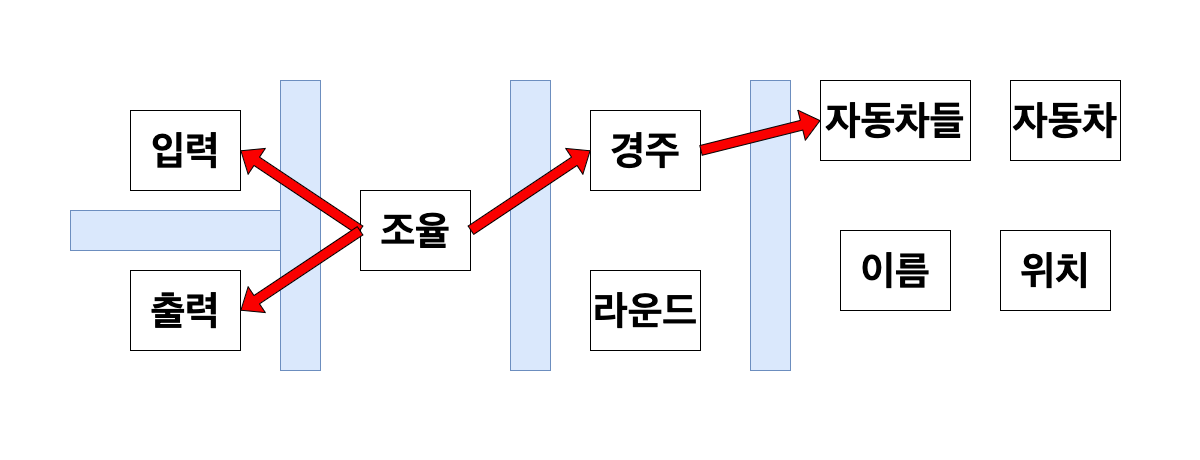
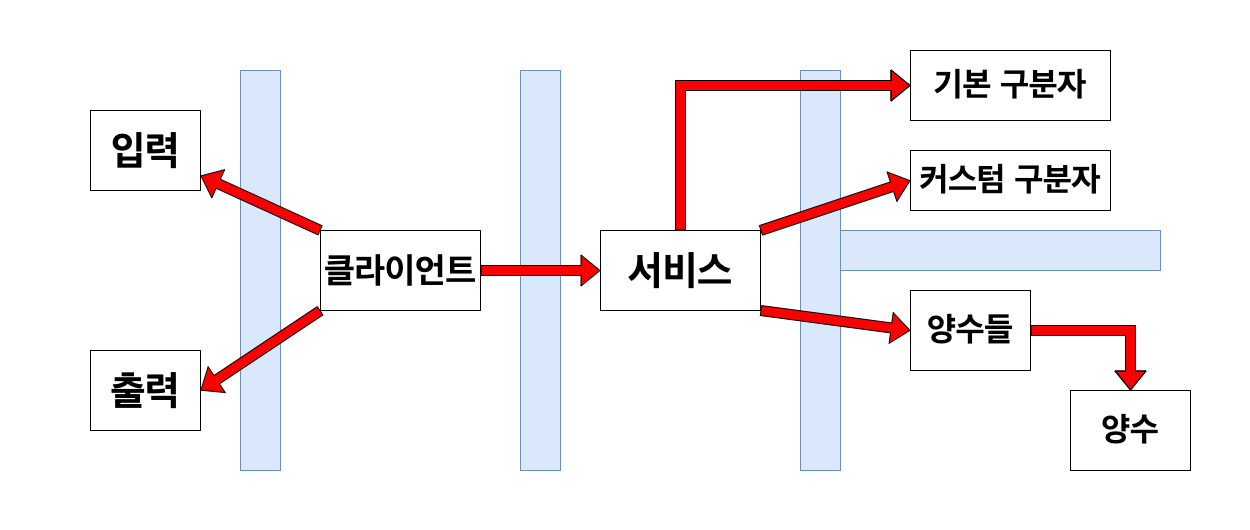
docs: 개념과 격벽 수정

diff --git a/docs/concept_bulkhead.md b/docs/concept_bulkhead.md
@@ -1,28 +1,30 @@
 # 개념과 격벽
-> - **개념은 자동차 경주 프로그램을 지탱하는 것들**
-> - **외부 라이브러리(Console, Random)는 개념이라 보기 어려움**
+> - **개념: 자동차 경주 프로그램을 지탱하는 것들**
+> - **외부 라이브러리(Console, Random): 개념이라 보기 어려움**
+
 - 자동차: 1급 개념
-  - 이름: 상태
+  - 이름: 상태, 2급 개념
     - 식별자 역할, 즉 고유한 값이어야 함
-  - 위치: 상태
+  - 위치: 상태, 2급 개념
     - 핵심 개념 경주에 영향을 주는 상태 값
   - 움직임(전진 or 멈춤): 행위, 위치(상태)에 영향
-- 자동차들: 2급 개념
 - 경주: 1급 개념
-  - 라운드(차수): 상태
-  - 차수 결과: 상태
+  - 라운드(시도 횟수): 상태, 2급 개념
+  - 결과: 상태, 2급 개념
+  - 랜덤값의 범위: 상수 -> 완벽하게 제어/통제 가능
   - 경주 진행: 행위, 자동차들에 움직임 요청해 차수 결과(상태)에 영향
-- 조율: 2급 개념
-  - 자동차 경주 개념들 조율
-- 출력: 2급 개념
-  - 형식: 변하지 않는 상태(상수)
+- 자동차 경주(서비스): 2급 개념
+  - 자동차와 경주의 비즈니스 흐름을 보여줌
+- 클라이언트: 3급 개념
+  - 화면과 서비스 사이에서 서비스 시작 요청을 전달하고, 서비스 결과 응답을 받아 전달한다
+- 출력 화면: 3급 개념
   - 출력 형식을 지키지 않으면 실패
-- 랜덤값: 3급 개념
-  - 외부 라이브러리 `Randoms` 사용 -> 완벽한 제어/통제 불가능
-  - 완벽하게 제어하고 통제할 수 있는 요소: 랜덤값의 범위
-- 입력: 3급 개념 
-  - 외부 라이브러리 `Console` 사용 -> 완벽한 제어/통제 불가능
+- 입력 화면: 3급 개념
   - 완벽하게 제어하고 통제할 수 있는 요소: 자원 해제, 기본 입력 형식(null, empty, blank)
+  - `ApplicationTest`에서 자원 해제를 진행, 하지만 프로덕션에서 자원 해제가 필요 -> 자원 해제가 없어도 테스트에서 문제가 없지만 운영 단계에서 문제 발생
+- 입력, 랜덤값: 개념 X
+  - 외부 라이브러리 `Console` 사용 -> 완벽한 제어/통제 불가능
+  - 외부 라이브러리 `Randoms` 사용 -> 완벽한 제어/통제 불가능
 
 <img width="800" alt="image" src="./images/concept-bulkhead.png">
 
@@ -31,12 +33,21 @@
   - 자동차는 스스로 움직임(전진/멈춤)
   - 자동차들에게 움직임(전진/멈춤)을 명령한다 -> 핵심 개념
 - 각 자동차에 이름을 부여할 수 있다. 전진하는 자동차를 출력할 때 자동차 이름을 같이 출력한다.
+  - 순서를 보장해야 한다
+  - 자동차 경주 -> 보통의 경주는 정해진 레인에서 시작, 입력 순서대로 레인을 배정해 진행하는 것으로 설정
+  - JDK 21 Sequenced Collection: List, LinkedHashMap 등 -> 최종 결과를 `getLast()`로 편리하게 볼 수 있음
 - 자동차 이름은 쉼표(,)를 기준으로 구분하며 이름은 5자 이하만 가능하다.
   - 쉼표를 기준으로 구분하는 것은 Presentation Layer 책임
   - 이름이 5자 이하인지 검증하는것은 이름과 관련된 도메인의 책임
-  - 이름에 공백을 포함? 이름에 이모지를 포함? -> 일종의 게임 닉네임
+  - 이름에 공백을 포함? 이름에 이모지를 포함? -> 일종의 게임 닉네임, 보통 허용하지 않음
+  - 여러 서비스(인스타, 배민 등)이름(닉네임)을 보면 영어(대소문자 구분), 숫자, `_`, 한글만 허용하는 곳이 많음
+  - 아스키 코드 표준을 따름 -> 데이터 저장(DB)과의 연관성
 - 사용자는 몇 번의 이동을 할 것인지를 입력할 수 있어야 한다.
-  - 너무 많은 자동차와 너무 많은 횟수 -> 몇 개 까지 제한하고, 몇 번 까지 제한할까? 
+  - 너무 많은 자동차와 너무 많은 횟수 -> 몇 개 까지 제한하고, 몇 번 까지 제한할까?
+  - 자동차 수는 일단 제한하지 않음
+  - 경주 횟수는 100번 제한: 사용자 디스플레이에 따라 다르나, 현재 출력 형식은 100번 가량 진행하는 것이 보기 편함
+  - `Randoms`는 Integer.MAX_VALUE - 1 까지 지원하는데, 성능 향상? `ThreadPool` 관리와 `ExecutorService` 사용? 경주 알고리즘 성능 개선?
+  - 현재 미션에 중요한 요소(목표)가 아님, 구현과 객체지향 설계가 목표, 시간이 매우 많이 남는다면 시도해볼만한 사항
 - 전진하는 조건은 0에서 9 사이에서 무작위 값을 구한 후 무작위 값이 4 이상일 경우이다.
   - 무작위 값은 외부 API(`Randoms.pickNumberInRange()`) 호출 -> 내가 제어/통제할 수 없는 요소
   - 내가 제어/통제할 수 있는 부분은 4 이상일 경우를 판단하는 부분
@@ -45,7 +56,7 @@
 - 사용자가 잘못된 값을 입력할 경우 IllegalArgumentException을 발생시킨 후 애플리케이션은 종료되어야 한다.
   - `IllegalArgumentException`: 부적절한 인수가 전달, 부적절한 인수를 누가 만들었나(누구의 책임: 사용자 or 개발자)?
     - 사용자: 빈 문자열, 공백으로 이루어진 문자열, 5자 초과
-    - 개발자: null, 인수 타입에 맞지 않는 데이터 전달(컴파일 시점에 막을 수 있음) 
+    - 개발자: null(변수 선언만 해놓고 넘어가는 경우, 실수로 놓칠 수 있음), 인수 타입에 맞지 않는 데이터 전달(컴파일 시점에 막을 수 있음) 
 - 입력: 경주할 자동차 이름(이름은 쉼표(,) 기준으로 구분), 시도할 횟수
   - 이름을 쉼표 기준으로 구분한다는 것을 입력에서 알려주고 있음 -> 도메인 규칙이라 보기 애매함
   - 쉼표를 기준으로 구분해 넘겨주는 것은 입력, 즉 Presentation Layer 책임으로 도메인에서 진행할 필요가 없음
@@ -89,14 +100,30 @@ jun : -----
   - 그래서 명시하지 않은 파일, 패키지 이름을 변경하면 안됨
   - 시작점의 책임은? Java 프로그램이 시작하려면 어떤 것들이 필요한가?
   - System.exit() 호출하지 않는 이유는 [문자열 덧셈기 문서](https://github.com/ykmxxi/java-calculator-7/blob/ykmxxi/docs/concept_bulkhead.md)
-- indent depth 3이 넘지 않도록 구현한다, 2까지만 허용
-  - 왜 indent depth를 2로 제한할까?
+- indent depth 3이 넘지 않도록 구현한다, 2까지만 허용, 왜 indent depth를 2로 제한할까?
+  - 함수가 한 가지 일만 하도록 최대한 작게 만들 수 있는 제한 사항
+  - 가독성이 떨어짐: for 내부의 if 내부의 if, 이런 식으로 중첩될 수록 읽기 힘들어짐
+  - 마치 만약에 A라면 어때? -> A인데 B를 더하면 어때? -> B를 더했는데 C가 아니면 어때? ... 꼬리물기 식으로 말하는것과 같음
+  - 단일 책임 원칙으로 가는 필요 조건
 - 왜 3항 연산자를 쓰지 않을까?
+  - if or else: 흑백논리처럼 두 가지 상황으로만 치부함 -> 확장에 열려 있지 않는 코드를 만드는것 같음
+  - age > 19 ? 성인 : 미성년자 -> 더 세부적으로 쪼개는 상황이 필요 -> `age > 19 ? ((age < 30) ? 20대 : (age ? 40) ?)...` 처럼 복잡해짐
+  - 결국 if (early return) 패턴이 확장에 더 열려 있음
 - 함수(또는 메서드)가 한 가지 일만 한도록 최대한 작게 만든다
   - 한 가지 일만 하는 것은 동의, 그런데 한 가지 일이라는 것이 정확히 무엇인가?
+    - 메서드: 한 상태에만 영향을 준다
   - 어디까지를 한 가지 일이라고 볼 것인가?
+    - 자동차의 `move()`는 위치에만 영향을 줘야 한다
   - 최대한 작게, 어디까지 작게 만들어야 할까?
+    - private 메서드는 한 상태에 영향을 주는 메서드가 여러 문맥으로 이뤄져 있다면 분리한다. 즉, 한 상태를 변하게 만드는 행동에 포함되는 작은 행동들
 - 왜 AssertJ를 많이 활용할까?
+  - 더 직관적임 == 더 읽기 편함
+    - `assertEquals(result, "result")` vs `assertThat(result).isEqualTo("result")`
+    - `assertTrue(list.size() > 2)` vs `assertThat(list).hasSize(2)`
+  - 편리한 기능을 더 많이 제공(더 다양한 검증 메서드를 제공)
+  - 실패 시 이유가 더 자세함
+  - 타입 안전성이 높음
+
   ```text
   JUnit Jupiter에서 제공하는 Assertions 기능만으로도 많은 테스트 시나리오에 충분하지만,
   더 강력한 성능과 매처와 같은 추가 기능이 필요하거나 필요한 경우가 있습니다.
